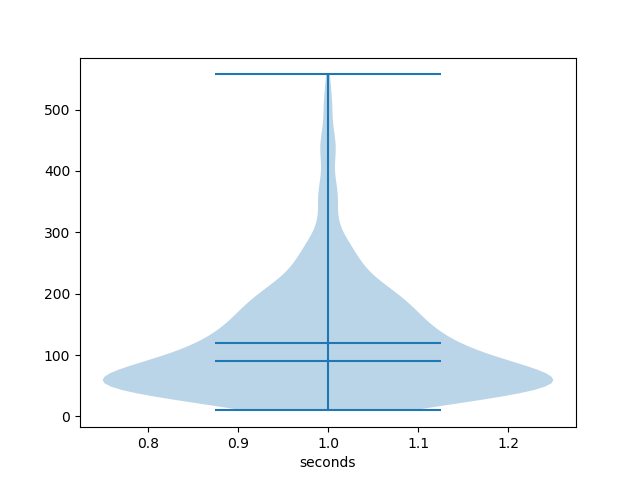
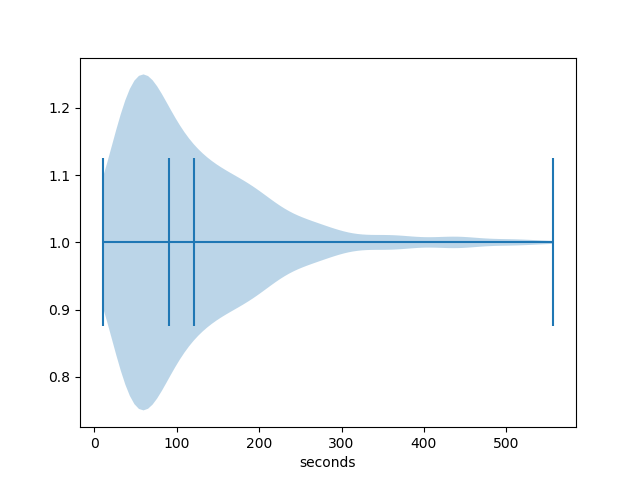
violin improved?

diff --git a/analyze.py b/analyze.py
@@ -217,7 +217,7 @@ def plot_box_hist(numbers, prefix):
 
         plt.clf()
         plt.xlabel("seconds")
-        plt.violinplot(numbers, showmeans=True, showmedians=True, vert=True)
+        plt.violinplot(numbers, showmeans=True, showmedians=True, vert=False)
         plt.savefig(prefix+'_violinplot.png')
     except ImportError:
         print("[warning] For data visualization, matplotlib is required",
